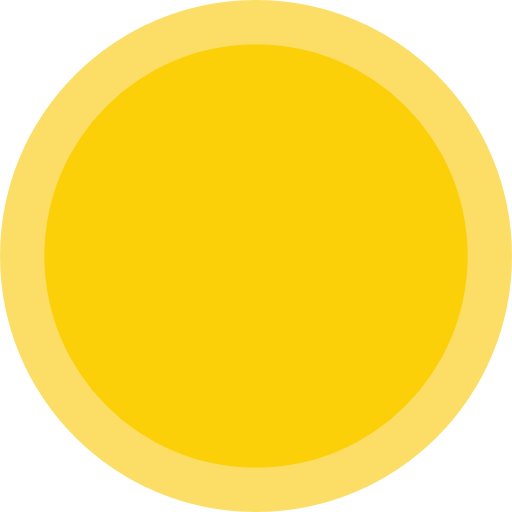
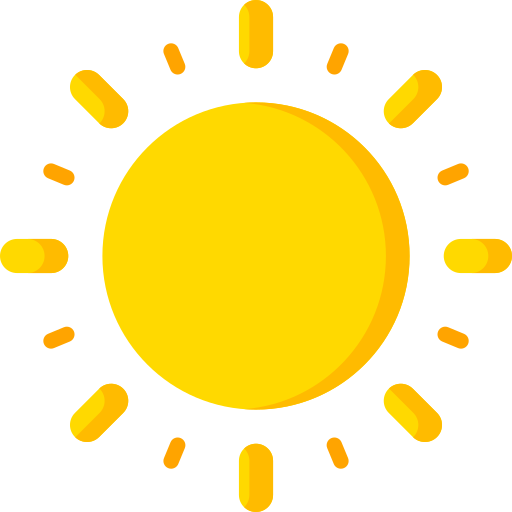
fix the loading pages

diff --git a/resources/js/Pages/AI-Agent-UI/AI-AgentForm.vue b/resources/js/Pages/AI-Agent-UI/AI-AgentForm.vue
@@ -143,7 +143,7 @@
           </div>
 
           <!-- ✅ Toggle Button for JSON/API Mode -->
-          <div v-if="!isAnalyzed && !isUploading" class="flex items-center justify-center gap-3 mt-2 relative z-50">
+          <!-- <div v-if="!isAnalyzed && !isUploading" class="flex items-center justify-center gap-3 mt-2 relative z-50">
             <span class="text-sm text-gray-700 font-medium">Use JSON File:</span>
             <button
               @click="toggleJsonMode"
@@ -159,7 +159,7 @@
               ></span>
             </button>
             <span class="text-xs text-gray-500">{{ useJsonFile ? 'ON' : 'OFF' }}</span>
-          </div>
+          </div> -->
 
           <!-- ✅ Buttons - positioned at bottom, always visible above success overlay -->
           <transition name="fade" mode="out-in">
@@ -269,6 +269,9 @@
 
     <LoadingPage :visible="loadingVisible" :job-id="jobId" :initial-text="loadingText" @complete="handleJobComplete"
       @error="handleJobError" />
+    
+    <!-- Loading Overlay for Save operation (similar to Export PDF) -->
+    <LoadingOverlay :visible="isSaving" message="Saving your analysis..." />
   </div>
 </template>
 
@@ -276,6 +279,7 @@
 import AIAgentContext from "./AI-AgentContext.vue";
 import Navbarheader from "../Layouts/Header.vue";
 import LoadingPage from "../Components/LoadingPage.vue";
+import LoadingOverlay from "../Components/LoadingOverlay.vue";
 import Tour from "../Layouts/Tour.vue";
 import { ref } from "vue";
 import axios from "axios";
@@ -285,6 +289,7 @@ const isDragging = ref(false);
 const isUploading = ref(false);
 const isAnalyzed = ref(false);
 const isSaved = ref(false); // Track if analysis has been saved (for Export PDF button)
+const isSaving = ref(false); // Track if save operation is in progress (for LoadingOverlay)
 const uploadedFile = ref(null);
 const uploadedFileURL = ref(null);
 const analysisData = ref(null);
@@ -323,8 +328,15 @@ function closeAlert() {
   alertVisible.value = false;
 }
 async function confirmAction() {
-  if (confirmCallback) await confirmCallback();
+  // ✅ CRITICAL FIX: Close alert FIRST before executing callback
+  // This prevents LoadingPage from showing behind the alert
   closeAlert();
+  
+  // Small delay to ensure alert closes before showing loading
+  await new Promise(resolve => setTimeout(resolve, 150));
+  
+  // Now execute the callback (which may show loading)
+  if (confirmCallback) await confirmCallback();
 }
 
 
@@ -671,16 +683,22 @@ function handleJobError(errorInfo) {
 async function reanalyze() {
   isReanalyzing.value = true;
 
-  loadingText.value = "Re-analyzing file...";
-  loadingVisible.value = true;
-  loadingProgress.value = 0;
-
+  // ✅ CRITICAL FIX: Reset all state BEFORE showing loading
   showSuccessMessage.value = false;
   isAnalyzed.value = false;
   isSaved.value = false;
   analysisData.value = null;
   cacheId.value = null;
-  jobId.value = null;
+  jobId.value = null; // ✅ Clear jobId FIRST
+  
+  // ✅ Hide loading first, then show again to force reset
+  loadingVisible.value = false;
+  await new Promise(resolve => setTimeout(resolve, 100)); // Small delay to ensure reset
+  
+  // ✅ Now set loading state with fresh values
+  loadingText.value = "Re-analyzing file...";
+  loadingProgress.value = 0;
+  loadingVisible.value = true;
 
   try {
     await startAnalysis();
@@ -704,12 +722,14 @@ async function saveAnalysis() {
     "Confirm Save",
     "Are you sure you want to save it? If yes, click 'Yes'. If not, click 'Cancel' and reanalyze it again.",
     async () => {
-      loadingText.value = "Saving analysis...";
-      loadingVisible.value = true;
+      // ✅ Note: Alert is already closed by confirmAction() before this callback runs
+      // ✅ Use LoadingOverlay (similar to Export PDF) - no progress bar
+      isSaving.value = true;
+      
       try {
         const cacheIdString = String(cacheId.value);
         console.log("💾 Saving analysis with cache_id:", cacheIdString);
-
+        
         const response = await axios.post("/api/confirm-analysis", {
           cache_id: cacheIdString,
           approved: true,
@@ -731,7 +751,8 @@ async function saveAnalysis() {
         console.error("❌ Save error:", err);
         showAlert("error", "Save Failed", getErrorMessage(err));
       } finally {
-        loadingVisible.value = false;
+        // ✅ Always hide loading overlay after save completes
+        isSaving.value = false;
       }
     }
   );

diff --git a/resources/js/Pages/Components/LoadingPage.vue b/resources/js/Pages/Components/LoadingPage.vue
@@ -1,6 +1,6 @@
 <template>
     <transition name="fade">
-        <div v-if="visible" class="fixed inset-0 bg-black bg-opacity-50 flex items-center justify-center z-50">
+        <div v-if="visible" class="fixed inset-0 bg-black bg-opacity-50 flex items-center justify-center z-[9998]">
             <div class="bg-white p-12 w-[400px] h-auto rounded-2xl shadow-lg flex flex-col items-center justify-center space-y-4">
                 <div class="relative w-full h-40">
                     <div class="absolute bottom-4 left-1/2 transform -translate-x-1/2 flex space-x-2">
@@ -93,6 +93,13 @@ const stopPolling = () => {
     if (progressSimulator) {
         progressSimulator.stop();
     }
+    
+    // ✅ CRITICAL FIX: Reset progress when stopping (for Re-analyze and Save buttons)
+    // Don't reset if we're just temporarily stopping (component still visible)
+    if (!props.visible) {
+        progress.value = 0;
+        message.value = props.initialText;
+    }
 };
 
 // Helper function to start polling
@@ -161,14 +168,25 @@ const pollProgress = async () => {
             progressSimulator.updateFromBackend(data.status);
         }
         
-        // Check if job is complete - this handles early completion
+        // Check if job is complete - VERIFY RESULT EXISTS FIRST
         if (data.status === 'complete') {
+            // ✅ CRITICAL FIX: Verify result exists before marking complete
+            // Backend might return 'complete' but result not ready yet
+            if (!data.result || (!data.result.analysis && !data.result.reports && !data.analysis)) {
+                // Backend says complete but no result yet - keep polling
+                console.warn('⚠ Backend returned complete but no result yet, continuing to poll...');
+                message.value = 'Finalizing result...';
+                // Don't stop polling - wait for actual result
+                isRequestInProgress = false;
+                return;
+            }
+            
             stopPolling();
             progress.value = 100; // Jump to 100% immediately
             message.value = 'Complete!';
             
             // Emit complete event with result
-            emit('complete', data.result);
+            emit('complete', data.result || data);
         } else if (data.status === 'failed') {
             // Job failed - stop polling and show error
             stopPolling();
@@ -232,6 +250,12 @@ const pollProgress = async () => {
 watch(
     () => [props.jobId, props.visible],
     ([newJobId, isVisible]) => {
+        // ✅ CRITICAL FIX: Reset progress when component becomes visible
+        if (isVisible) {
+            progress.value = 0; // Reset progress to 0 when LoadingPage becomes visible
+            message.value = props.initialText; // Reset message
+        }
+        
         if (newJobId && isVisible) {
             startPolling();
         } else {

diff --git a/resources/js/Pages/Components/LoadingOverlay.vue b/resources/js/Pages/Components/LoadingOverlay.vue
@@ -1,6 +1,6 @@
 <template>
     <transition name="fade">
-        <div v-if="visible" class="fixed inset-0 bg-black bg-opacity-50 flex items-center justify-center z-50">
+        <div v-if="visible" class="fixed inset-0 bg-black bg-opacity-50 flex items-center justify-center z-[9998]">
             <div class="bg-white p-8 rounded-2xl shadow-lg flex flex-col items-center justify-center space-y-4">
                 <div class="relative w-24 h-24">
                     <div class="absolute bottom-0 left-0 w-full h-4 bg-green-700 rounded-full"></div>
@@ -18,7 +18,7 @@
                 </div>
 
                 <p class="text-green-900 font-semibold text-lg animate-pulse">
-                    Exporting your report... 🌱
+                    {{ message }}
                 </p>
             </div>
         </div>
@@ -30,6 +30,10 @@ const props = defineProps({
     visible: {
         type: Boolean,
         default: false,
+    },
+    message: {
+        type: String,
+        default: "Exporting your report... 🌱",
     },
 });
 </script>

diff --git a/resources/js/Pages/AI-Agent-UI/AI-AgentContext.vue b/resources/js/Pages/AI-Agent-UI/AI-AgentContext.vue
@@ -149,11 +149,9 @@
                         </div>
                         <!-- Display Based on Season -->
                         <div class="flex items-center justify-center mt-4">
-                            <!-- DRY = Yellow Sun -->
-                            <div v-if="currentReport.analysis.basic_info.season === 'dry'"
-                                class="w-24 h-24 rounded-full bg-yellow-400"
-                                style="box-shadow: 0 0 0 4px rgba(250, 204, 21, 0.2);">
-                            </div>
+                            <!-- DRY = Sun icon -->
+                            <img v-if="currentReport.analysis.basic_info.season === 'dry'"
+                                src="/images/sun.png" alt="Dry Season Icon" class="w-24 h-auto" />
 
                             <!-- WET = Cloud/rain icon -->
                             <img v-else src="/images/cloud_with_rain.png" alt="Wet Season Icon" class="w-24 h-auto" />
